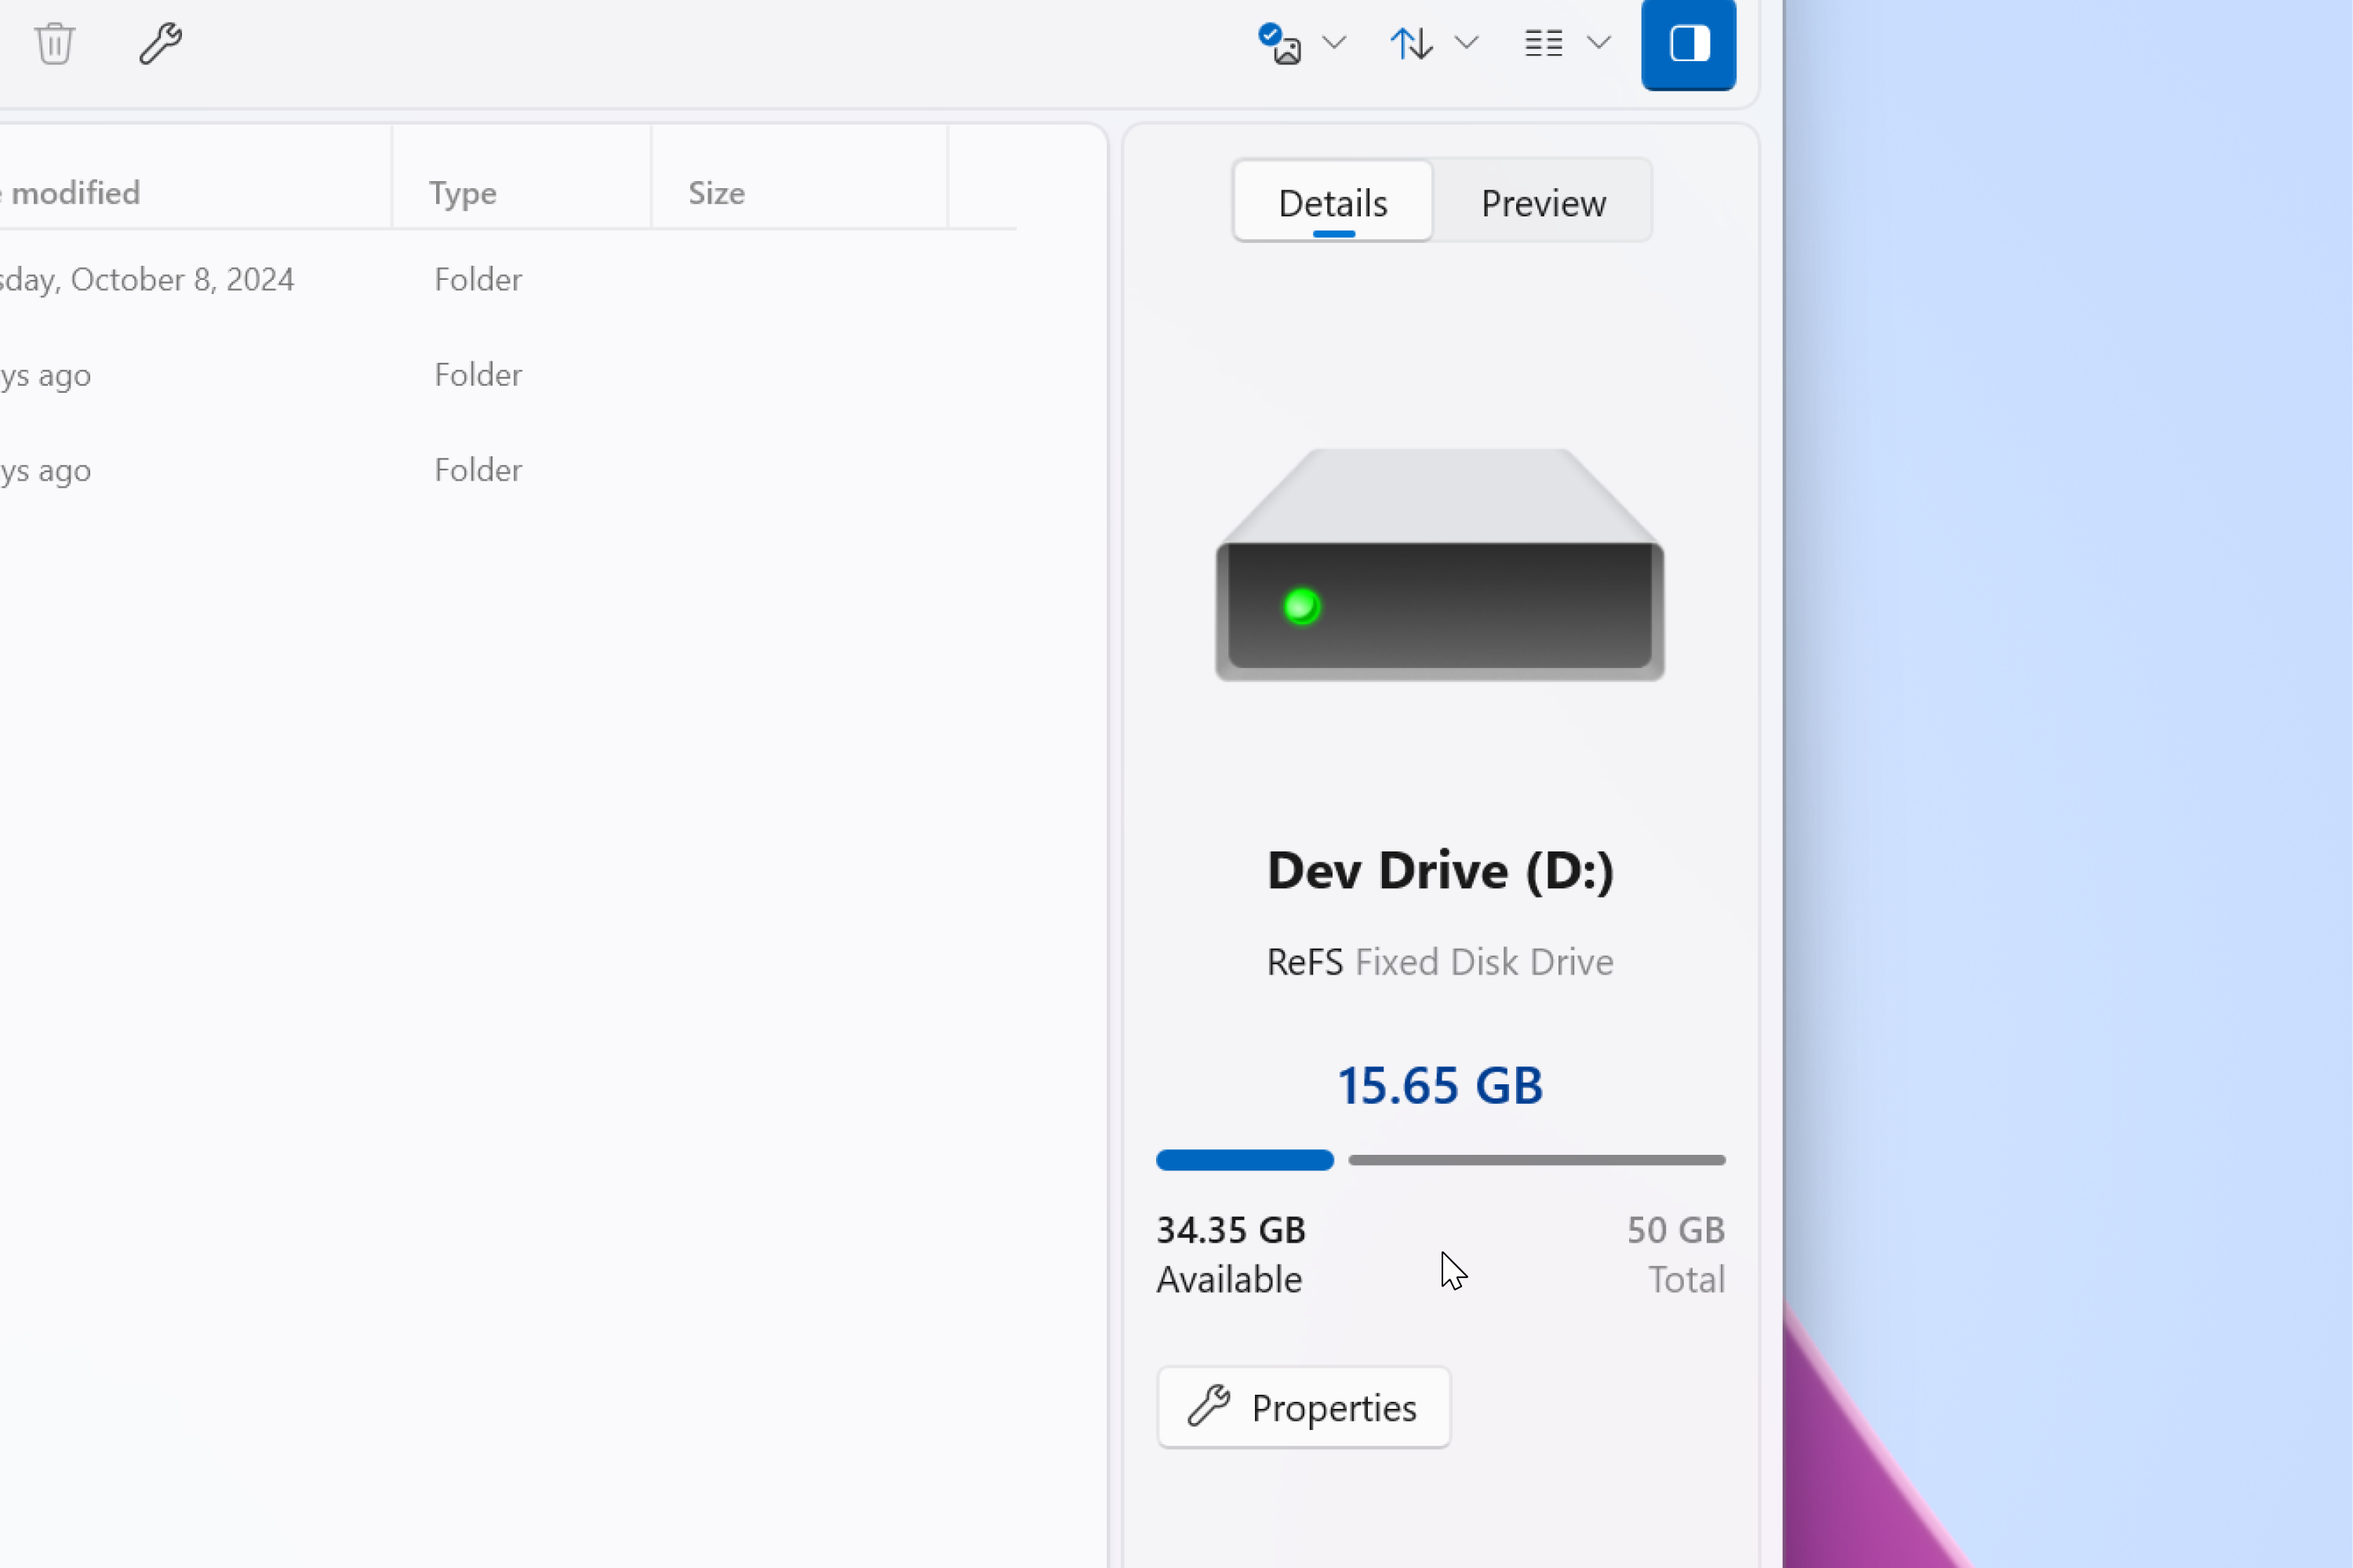
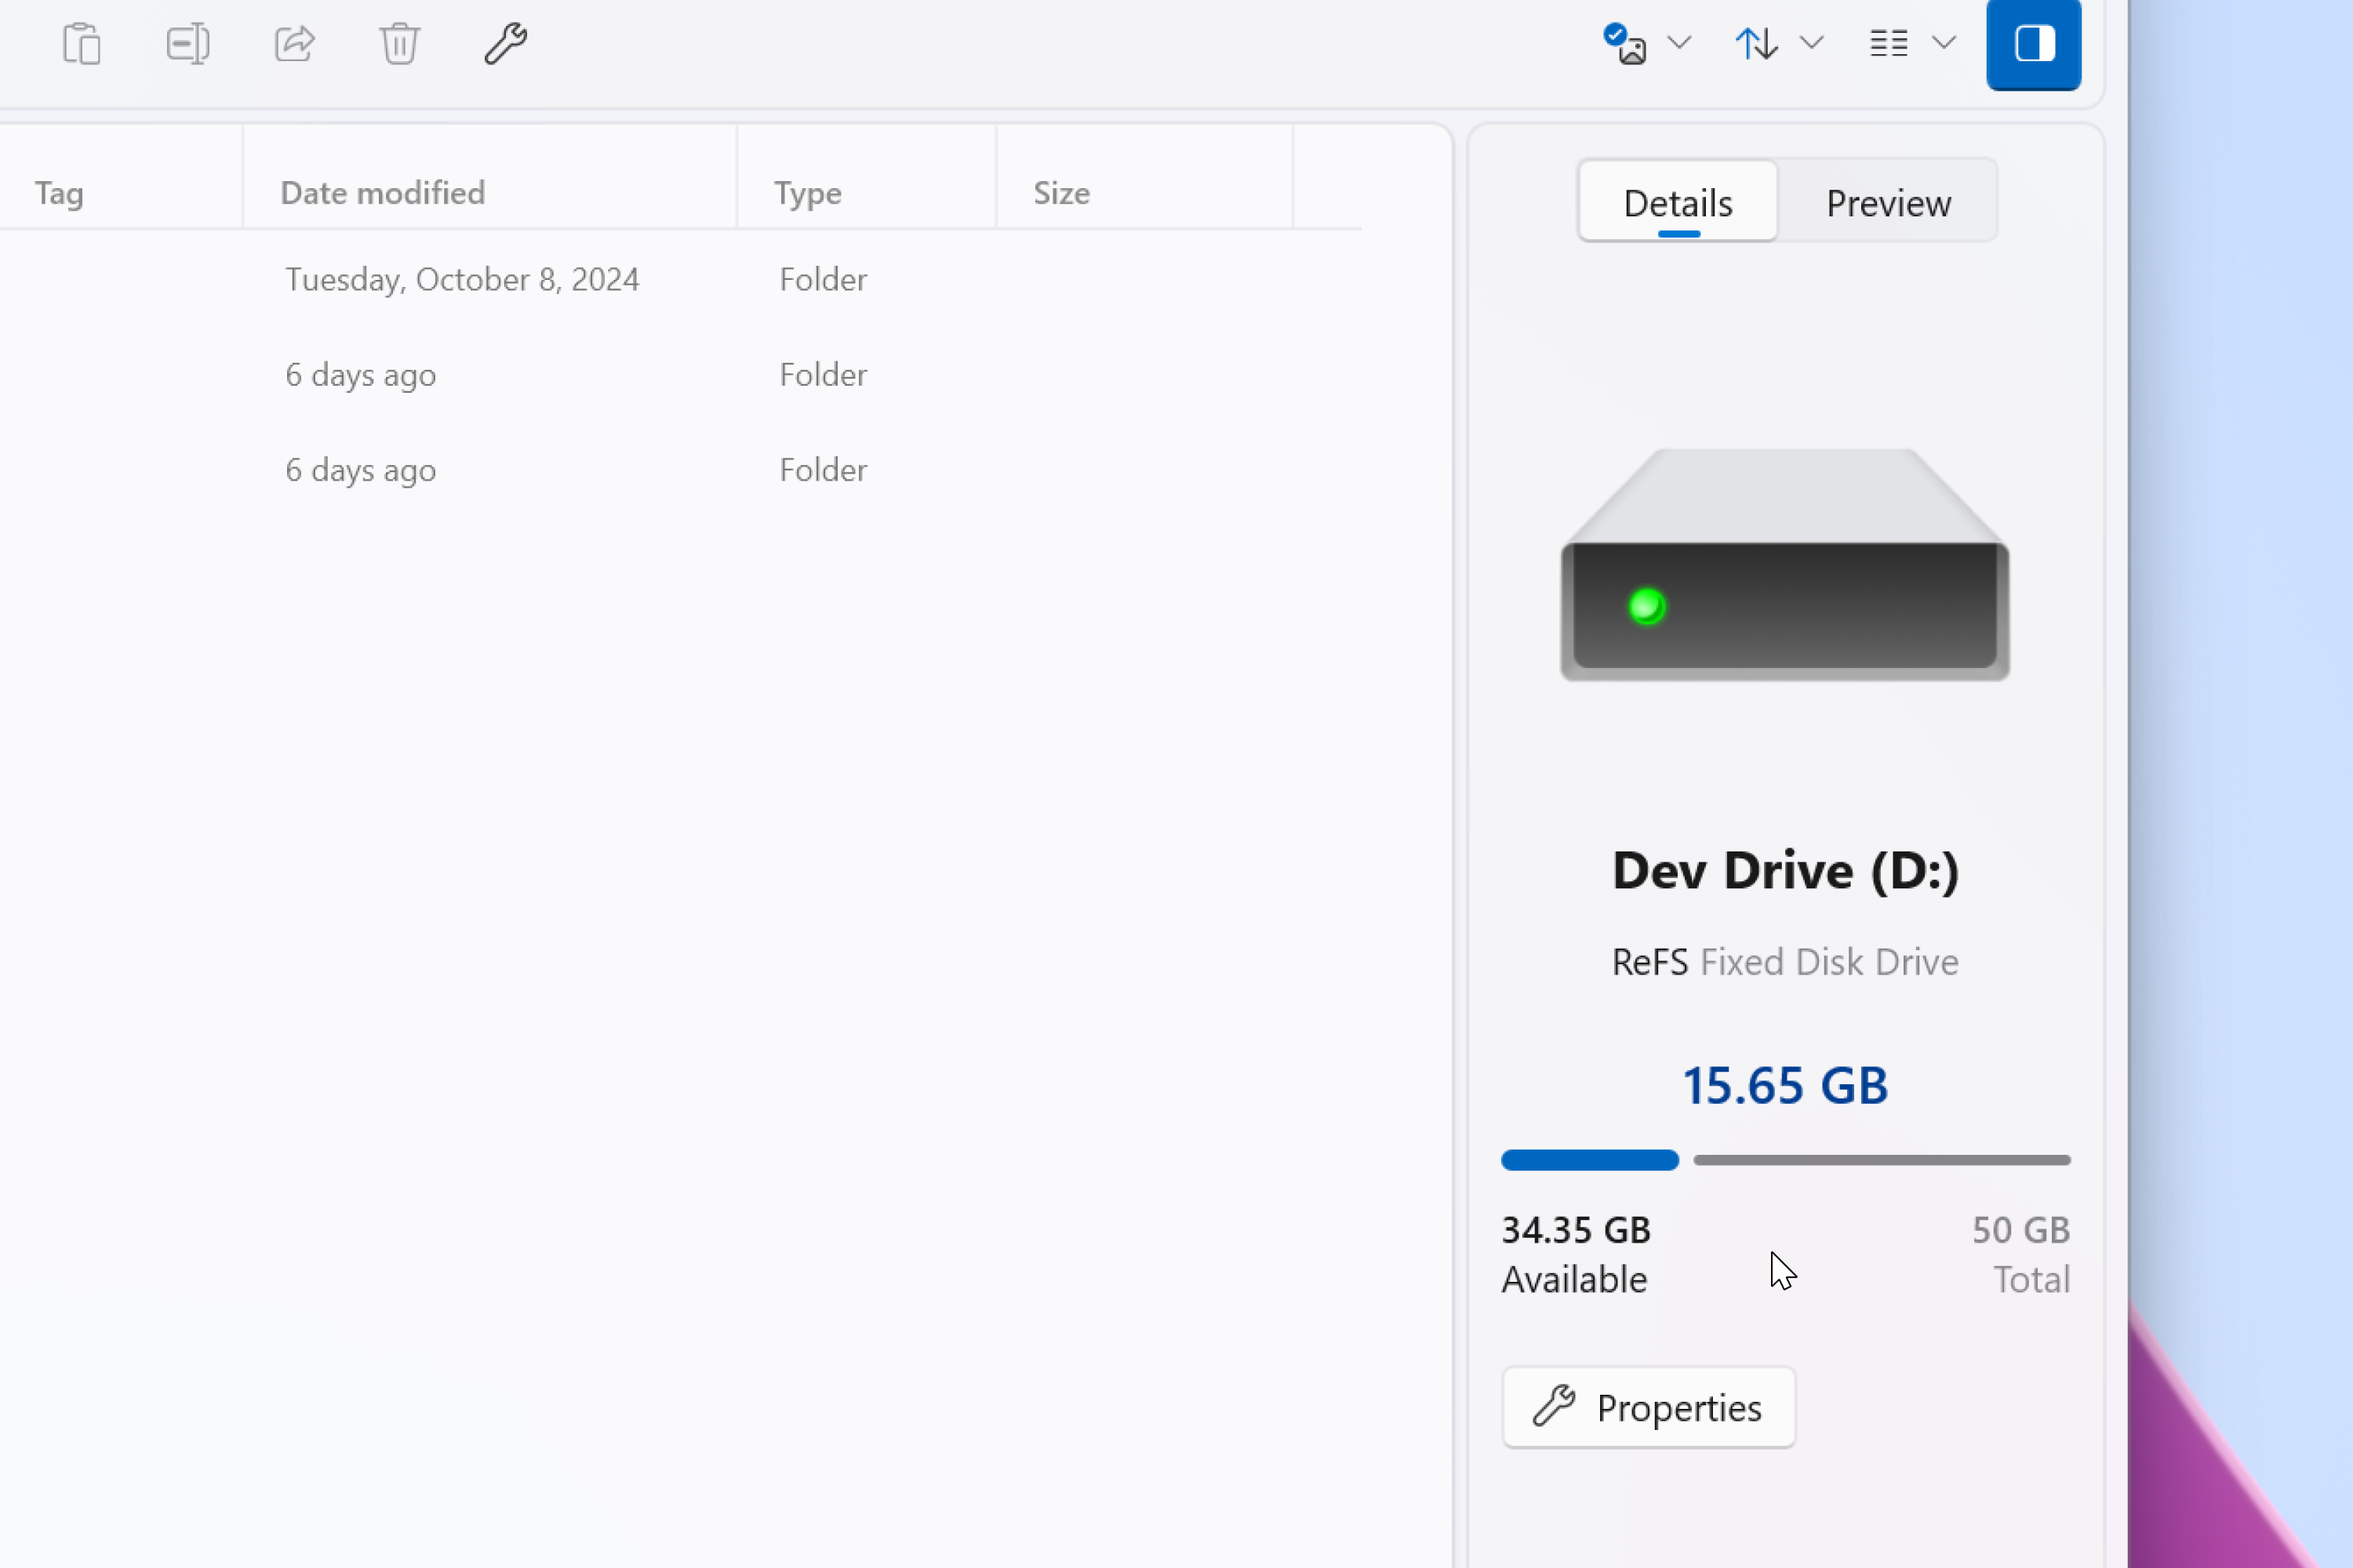
Draft: v3.9 (#760)

diff --git a/src/routes/blog/posts/v3-9-0/+page.md b/src/routes/blog/posts/v3-9-0/+page.md
@@ -1,0 +1,250 @@
+---
+title: Announcing General Availability of Files v3.9
+description: Today, we're excited to announce the release of Files v3.9 for all users.
+thumbnail: /blog-resources/v3-9/Hero.png
+date: 1/30/2025
+author: files-community
+---
+
+I'm excited to announce that Files v3.9 is now available! 🎉 Existing users will receive an update notification in the top right corner of the app, while new users can get started for free from our [download page](/download/). Additionally, you can help support the project by purchasing Files on the [Microsoft Store](ms-windows-store://pdp/?ProductId=9nghp3dx8hdx&cid=FilesWebsite) or sponsoring us on [GitHub](https://github.com/sponsors/yaira2). Your support is greatly appreciated but entirely optional.
+
+## Changes
+
+### Introducing the Cards View layout
+
+We've added a new **Cards View** layout that includes standard metadata like the item thumbnail, name, type, and size, along with context specific properties. For instance, images display their dimensions, media files show their duration, and phones and tablets show their storage details. File tags and sync status for cloud drives are also displayed. This new view replaces the former Tiles View.
+
+<figure>
+    <img src="/blog-resources/v3-9/CardsViewMedium.png" alt="Medium cards" />
+    <figcaption>Medium Cards</figcaption>
+</figure>
+
+<figure>
+    <img src="/blog-resources/v3-9/CardsViewSmall.png" alt="Small cards" />
+    <figcaption>Small Cards</figcaption>
+</figure>
+
+### Improved contrast in the Grid View layout
+
+The **Grid View** layout now features an accent colored border around selected items, improving visibility and contrast.
+
+<figure>
+    <img src="/blog-resources/v3-9/GridViewContrast.png" alt="Improved contrast in Grid View layout" />
+    <figcaption>Selected item in the Grid View layout</figcaption>
+</figure>
+
+### Thumbnail sizes
+
+Icon and thumbnail sizes in the Details View, List View, Columns View, and Cards View are now synchronized with the selected layout size.
+
+<figure>
+    <img src="/blog-resources/v3-8-13/DetailsViewIconSizes.png" alt="Large icons in the Details View layout" />
+    <figcaption>Large icons in the Details View layout</figcaption>
+</figure>
+
+### Storage information in the Details Pane
+
+We've added a new section to the **Details Pane** that displays drive storage details, giving you quick access to this information.
+
+<figure>
+    <img src="/blog-resources/v3-9/DriveDetails.png" alt="Storage information in the Details Pane" />
+    <figcaption>Storage information in the Details Pane</figcaption>
+</figure>
+
+### Custom shortcut names
+
+You can now assign custom names directly from the **Create New Shortcut** dialog. Previously, shortcut names were automatically assigned and could only be renamed after creation.
+
+<figure>
+    <img src="/blog-resources/v3-9/ShortcutDialog.png" alt="Create shortcut dialog" />
+    <figcaption>Create New Shortcut dialog</figcaption>
+</figure>
+
+### Revamped Release Notes experience
+
+We've revamped the **Release Notes** experience. The toolbar button that appears after an update now features a fresh new icon. We've also added a new [action](/docs/customize-settings/actions/) that lets you access the Release Notes dialog anytime, not just after an update. Finally, the Release Notes dialog now directly displays changelogs from the Files website.
+
+<figure>
+    <img src="/blog-resources/v3-9/ReleaseNotesIcon.png" alt="What's New toolbar button" />
+    <figcaption>Open Release Notes button</figcaption>
+</figure>
+
+### Redesigned Update Files button
+
+The **Update Files** toolbar button, which appears when an update is available, has been redesigned with a new accent colored icon. It's now more noticeable, helping you update Files more easily.
+
+<figure>
+    <img src="/blog-resources/v3-9/UpdateFilesIcon.png" alt="Update Files button" />
+    <figcaption>Update Files button</figcaption>
+</figure>
+
+### DPI awareness improvements
+
+Icons and thumbnails are now **DPI aware** in the Details View, List View, Columns View, Cards View, the search suggestion flyout, and the Tags Widget, ensuring clarity on all displays.
+
+### Updated Tags Widget
+
+The **Tags Widget** has been refreshed to align with the overall UI design. We've also added a new feature allowing you to apply tags by dragging and dropping files or folders onto tags in the sidebar, making organization even easier.
+
+### Enhanced support for image files
+
+You can now rotate JPEG-XR images using the toolbar or right click context menu. Additionally, you can now set JPEG-XR images as your desktop or lockscreen background directly from Files.
+
+### Auto focus new tabs
+
+We've added a new setting to automatically switch to newly created tabs. This option is available on the General Settings page.
+
+<figure>
+    <img src="/blog-resources/v3-9/AlwaysSwitchTabs.png" alt="Settings dialog" />
+    <figcaption>Auto focus tabs setting</figcaption>
+</figure>
+
+### Improved Properties Window
+
+You can now browse for `.icl` files on the customize page in the **Properties Window**. We've also added support for modifying the 'compress contents' attribute, and the shortcut page now allows you to adjust the window size for opening shortcut files.
+
+<figure>
+    <img src="/blog-resources/v3-9/CompressAttribute.png" alt="Compress attribute" />
+    <figcaption>Compress contents attribute</figcaption>
+</figure>
+
+<figure>
+    <img src="/blog-resources/v3-9/ShortcutWindowArgs.png" alt="Shortcut window option" />
+    <figcaption>Shortcut window options</figcaption>
+</figure>
+
+### New launch protocols
+
+We've added individual launch protocols for each branch of Files, making it easier to work with different versions.
+
+| Branch  | Alias             | URI Scheme      |
+|---------|-------------------|-----------------|
+| Dev     | files-dev.exe     | files-dev:      |
+| Preview | files-preview.exe | files-preview:  |
+| Stable  | files-stable.exe  | files-stable:   |
+
+### Performance enhancements
+
+Items in the breadcrumb flyout now begin loading as soon as the flyout starts to open, rather than waiting for it to fully open. We've also removed the open and close animations from the breadcrumb, back button, and forward button flyouts. Additionally, thumbnails within these flyouts are now loaded lazily, reducing initial load times and improving overall responsiveness.
+
+### Improved Drag & Drop functionality
+
+The Files window now stays in the background when you drag items to other applications. Additionally, you can now drag files directly from the Recent Files widget into other applications.
+
+### Archive support
+
+You can set Files as the default application for opening `.gz` archives, streamlining access to compressed files. We've also updated our 7zip dependencies to leverage the latest improvements.
+
+### Details View settings
+
+Toggling columns via the Settings Dialog now updates all existing tabs. Previously, changes only affected new tabs opened after the change.
+
+### Updated Home Page
+
+We've improved the Home Page by removing the empty toolbar area, providing a cleaner look.
+
+### Address Bar keyboard navigation
+
+We've added support for opening breadcrumb flyouts using the `Space` and `Enter` keys, improving keyboard navigation.
+
+### Taskbar
+
+The number of open tabs is no longer displayed in the Windows Taskbar.
+
+### Cloud Drive support
+
+Added support for Lucid Link v3.
+
+
+## Fixes
+
+### Actions
+
+- Fixed a crash that would occur when using the 'Storage Sense' [action](/docs/customize-settings/actions/).
+- Resolved an issue with the 'Run with PowerShell' action not working for files with spaces in their names.
+
+### Address Bar
+
+- Fixed keyboard navigation in the address path bar.
+- Resolved an issue where the address bar flyouts sometimes displayed duplicate items.
+
+### Archives
+
+- Fixed an issue where the size wasn't displayed after creating a new archive.
+
+### Cloud Drives
+
+- Addressed various issues with Google Drive support.
+
+### Columns View
+
+- Fixed an issue that caused unexpected scrolling in the Columns View layout.
+- Resolved a crash that would occur when opening the context menu in the Columns View layout.
+
+### Drag & Drop
+
+- Resolved multiple issues with drag & drop support between Files and other applications.
+
+### Git Repos
+
+- Fixed an issue where soft link details were misaligned in Git repositories.
+
+### Group By and Sort By
+
+- Resolved an issue where changing the grouping and sorting preferences would only update the current tab.
+
+### Right Click Context Menu
+
+- Fixed an issue where right-clicking a file would display the option to open in a new tab.
+
+### Startup
+
+- Fixed a crash that would occur when starting Files from WSL directories.
+- Resolved startup freeze caused by a heavily populated Recycle Bin.
+- Fixed an issue where the previous session's tabs were briefly displayed when the startup setting was set to 'open new tab'.
+- Fixed an issue where launching Files from Terminal didn't use the correct path.
+
+### Tabs
+
+- Resolved an issue where tabs weren't placed in the correct order when dragged from other windows.
+
+### Tags
+
+- Resolved an issue with displaying properties for tagged items.
+- Fixed an issue where tags sometimes displayed with the wrong color.
+
+### Title Bar
+
+- Fixed an issue where the title bar drag region was sometimes missing.
+
+
+## Contributors
+
+Files is made possible through the collaborative efforts of the open-source community on GitHub. The following developers have contributed to this release:
+
+- @0x5bfa
+- @andreistaravoitau
+- @ashrafmansuri
+- @d2dyno1
+- @el-ev
+- @ferrariofilippo
+- @gave92
+- @Jack251970
+- @Lamparter
+- @marcofranzen99
+- @mdtauk
+- @Roilin-Lab
+- @viruseg
+- @wharvex
+- @XTorLukas
+
+
+## Conclusion
+
+As always, we appreciate your feedback and suggestions on how we improve Files. You can reach us on [Discord](https://discord.gg/files) and on [GitHub](https://github.com/files-community/Files/).
+
+Thank you for using Files! 😊
+
+---
+
+Download Files Preview from the [Microsoft Store](ms-windows-store://pdp/?ProductId=9NSQD9PKV3SS&cid=FilesWebsite) | Sponsor us on [GitHub](https://github.com/sponsors/yaira2/)
